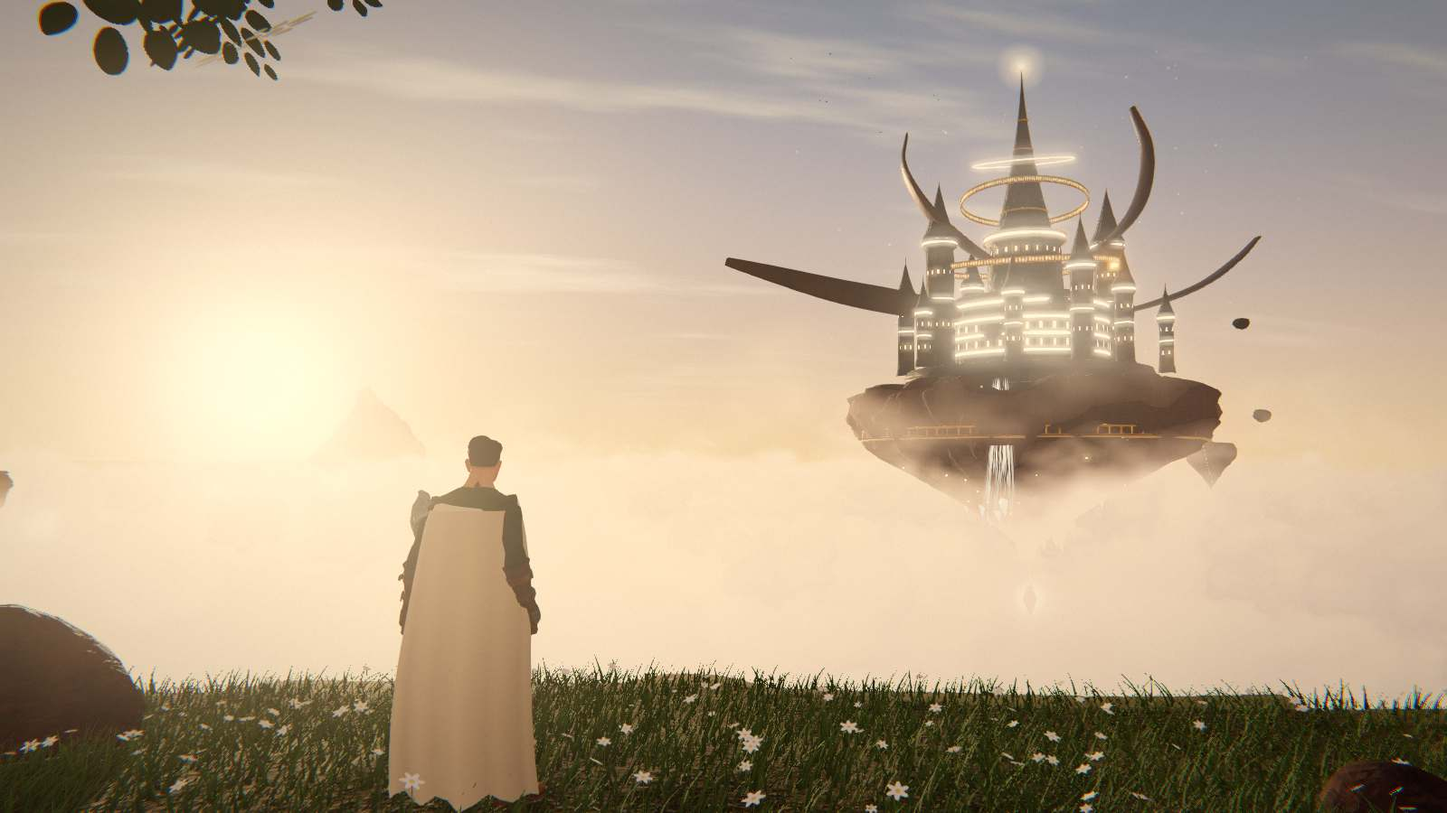
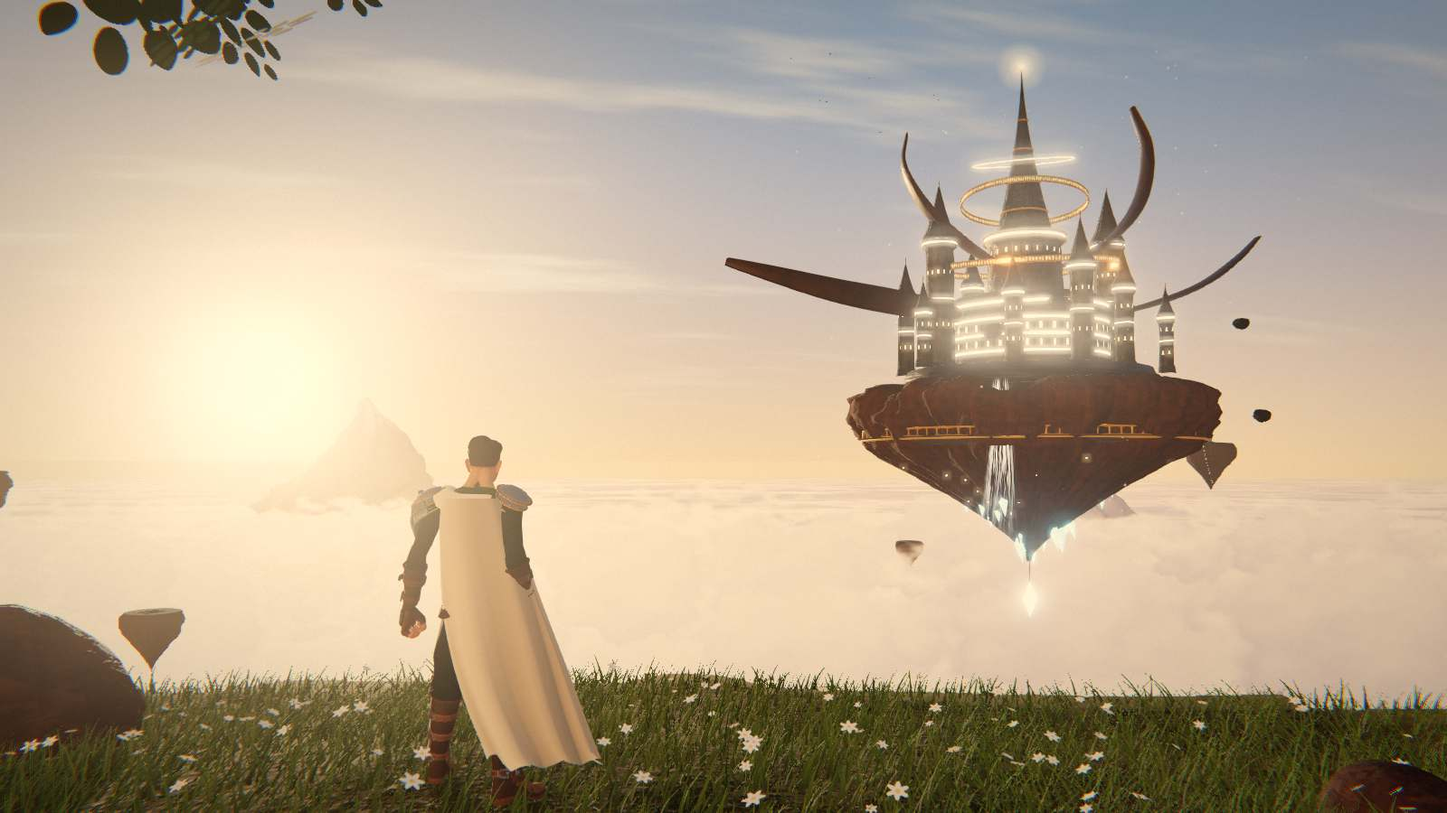
Title scene closer to the reference: sun in frame, visible sea of clouds, hero with hair, pauldrons and wind-swept cloak; crossed curved daggers; tree colour variation; crisp brand text

diff --git a/src/client/scenes/skycastle.ts b/src/client/scenes/skycastle.ts
@@ -186,10 +186,10 @@ export class SkyCastle {
     A.uSunDir.value.copy(this.sunDir);
     A.uFogColor.value.setRGB(0.86, 0.66, 0.50);
     A.uSunFogColor.value.setRGB(1.0, 0.62, 0.30);
-    A.uFogDensity.value = 0.00016; A.uFogHeight.value = -60; A.uFogFalloff.value = 0.0022;
+    A.uFogDensity.value = 0.00007; A.uFogHeight.value = -60; A.uFogFalloff.value = 0.0022;
     this.sky = skyDome(this.sunDir);
     const su = (this.sky.material as THREE.ShaderMaterial).uniforms;
-    su.uZen.value.setRGB(0.20, 0.27, 0.46); su.uHor.value.setRGB(1.0, 0.66, 0.38); su.uSunCol.value.setRGB(1.0, 0.68, 0.34);
+    su.uZen.value.setRGB(0.15, 0.29, 0.58); su.uHor.value.setRGB(1.0, 0.66, 0.38); su.uSunCol.value.setRGB(1.0, 0.68, 0.34);
     su.uSeaLo.value.setRGB(0.62, 0.46, 0.46); su.uSeaHi.value.setRGB(1.0, 0.82, 0.62);
     S.add(this.sky);
 
@@ -606,7 +606,7 @@ export class SkyCastle {
 
     // THE HERO: seen from behind at the cliff edge, cream hooded cloak in the wind, facing the castle
     try {
-      const h = await makeHero('Ranger_Male_SimpleParted', { headgear: false, hair: 0x2a2018, tint: 0x8e8270 });
+      const h = await makeHero('Ranger_Male_SimpleParted', { headgear: false, hair: 0x5a4636, tint: 0x8e8270 });
       h.root.traverse((o) => { if (/Hair_Beard|Head_Hood/.test(o.name)) o.visible = false; });
       const ah = 5.2, sd = -0.9;
       const x = cb.x + f.x * ah + r.x * sd, z = cb.z + f.z * ah + r.z * sd;
@@ -616,7 +616,31 @@ export class SkyCastle {
       h.play('idle', 0); h.mixer.update(0.5);
       this.scene.add(h.root);
       h.root.updateMatrixWorld(true);
-      const cl = makeCloak(h.root, { color: 0xd6c4a0, length: 1.3, width: 0.74, litSide: 1 });
+      const cl = makeCloak(h.root, { color: 0xd6c4a0, length: 1.25, width: 0.6, litSide: 1, sweep: -0.55 });
+      // light armour like the reference: layered steel pauldrons with gold edging on both shoulders
+      {
+        const steel = new THREE.MeshPhysicalMaterial({ color: 0xa39a8c, metalness: 0.85, roughness: 0.42, clearcoat: 0.2, envMapIntensity: 0.6 });
+        const gold = new THREE.MeshStandardMaterial({ color: 0xc9a25a, metalness: 1, roughness: 0.3 });
+        const s = h.root.scale.x || 1;
+        for (const side of ['l', 'r'] as const) {
+          let arm: THREE.Object3D | null = null; h.root.traverse((b) => { if (b.name === 'upperarm_' + side) arm = b; });
+          if (!arm) continue;
+          const wp = new THREE.Vector3().setFromMatrixPosition((arm as THREE.Object3D).matrixWorld);
+          const out = new THREE.Vector3().subVectors(wp, new THREE.Vector3().setFromMatrixPosition(h.root.matrixWorld)).setY(0).normalize();
+          const P = new THREE.Group();
+          for (let k = 0; k < 3; k++) {
+            const rr = (0.078 - k * 0.009) * s;
+            const shell = new THREE.Mesh(new THREE.SphereGeometry(rr, 20, 10, 0, Math.PI * 2, 0, Math.PI * 0.42), steel);
+            shell.scale.set(1.05, 0.62, 1.2); shell.position.set(0, -k * 0.034 * s, 0); shell.rotation.z = k * 0.12;
+            const rim = new THREE.Mesh(new THREE.TorusGeometry(rr * Math.sin(Math.PI * 0.42) * 1.04, 0.006 * s, 6, 28), gold);
+            rim.rotation.x = Math.PI / 2; rim.scale.set(1.05, 1.2, 1); rim.position.set(0, shell.position.y + rr * Math.cos(Math.PI * 0.42) * 0.62, 0);
+            shell.castShadow = rim.castShadow = true; P.add(shell, rim);
+          }
+          P.position.copy(wp).addScaledVector(out, 0.03 * s).add(new THREE.Vector3(0, 0.05 * s, 0));
+          P.lookAt(P.position.clone().add(new THREE.Vector3(0, 1, 0)).addScaledVector(out, 0.55)); P.rotateX(Math.PI / 2);
+          this.scene.add(P); (arm as THREE.Object3D).attach(P);
+        }
+      }
       if (cl) { cl.uniforms.uWind.value = 1.25; this.cloak = cl; }
       this.heroes.push(h);
       this.hero = h.root;
@@ -661,10 +685,10 @@ export class SkyCastle {
   /** The sea of clouds under the islands: an fbm cloud deck lit by the low sun (warm tops,
    *  lilac shade), with forward scattering toward the sun and distance haze into the horizon. */
   private buildCloudSea() {
-    const y0 = this.camBase.y - 120;
+    const y0 = this.camBase.y - 240;
     const m = new THREE.ShaderMaterial({
       fog: false, depthWrite: false, transparent: false,
-      uniforms: { uTime: { value: 0 }, uSun: { value: this.sunDir }, uCam: { value: this.camera.position }, uLit: { value: new THREE.Color(1.35, 0.98, 0.70) }, uShade: { value: new THREE.Color(0.46, 0.36, 0.46) }, uHaze: { value: new THREE.Color(1.0, 0.70, 0.46) }, uSunCol: { value: new THREE.Color(1.0, 0.68, 0.36) } },
+      uniforms: { uTime: { value: 0 }, uSun: { value: this.sunDir }, uCam: { value: this.camera.position }, uLit: { value: new THREE.Color(1.35, 0.98, 0.70) }, uShade: { value: new THREE.Color(0.38, 0.30, 0.42) }, uHaze: { value: new THREE.Color(0.98, 0.66, 0.44) }, uSunCol: { value: new THREE.Color(1.0, 0.68, 0.36) } },
       vertexShader: 'varying vec3 vW; void main(){ vec4 w = modelMatrix * vec4(position,1.0); vW = w.xyz; gl_Position = projectionMatrix * viewMatrix * w; }',
       fragmentShader: `
         uniform float uTime; uniform vec3 uSun, uCam, uLit, uShade, uHaze, uSunCol; varying vec3 vW;
@@ -685,7 +709,7 @@ export class SkyCastle {
           float mu = max(dot(v, uSun), 0.0);
           col += uSunCol * (pow(mu, 10.0) * 0.9 + pow(mu, 3.0) * 0.25) * (0.4 + tops);
           float dist = length(vW.xz - uCam.xz);
-          float hz = 1.0 - exp(-dist * 0.00018);
+          float hz = 1.0 - exp(-dist * 0.00007);
           col = mix(col, uHaze + uSunCol * pow(mu, 6.0) * 0.6, clamp(hz, 0.0, 1.0));
           gl_FragColor = vec4(col, 1.0);
         }`,
@@ -703,12 +727,12 @@ export class SkyCastle {
         const u = x / S - 0.5, v = y / S - 0.5;
         const nn = fbm(u * 6 + 3, v * 6, 1.7, 5);
         const r = Math.hypot(u, v * 1.25) * 2;
-        const a0 = (1 - r) * 1.7 + (nn - 0.5) * 2.2; const a = a0 <= 0 ? 0 : Math.min(1, a0 * a0 * 2.2);
-        const i = (y * S + x) * 4; im.data[i] = im.data[i + 1] = im.data[i + 2] = 255 * Math.min(1, 0.55 + nn * 0.6); im.data[i + 3] = 255 * Math.pow(a, 1.4);
+        const a0 = (1 - r) * 1.9 + (nn - 0.5) * 2.4; const a = a0 <= 0 ? 0 : Math.min(1, a0 * a0 * 5.0);
+        const i = (y * S + x) * 4; im.data[i] = im.data[i + 1] = im.data[i + 2] = 255 * Math.min(1, 0.55 + nn * 0.6); im.data[i + 3] = 255 * a;
       }
       g2.putImageData(im, 0, 0);
       const ct = new THREE.CanvasTexture(c); ct.colorSpace = THREE.NoColorSpace;
-      const N = this.quality === 'low' ? 70 : 170;
+      const N = this.quality === 'low' ? 90 : 260;
       const geo = new THREE.InstancedBufferGeometry();
       geo.setAttribute('position', new THREE.BufferAttribute(new Float32Array([-0.5, -0.5, 0, 0.5, -0.5, 0, 0.5, 0.5, 0, -0.5, 0.5, 0]), 3));
       geo.setAttribute('uv', new THREE.BufferAttribute(new Float32Array([0, 0, 1, 0, 1, 1, 0, 1]), 2));
@@ -716,16 +740,16 @@ export class SkyCastle {
       const off = new Float32Array(N * 4); const rr = mulberry(311);
       const f = this.fwd, rt = this.right, cb = this.camBase;
       for (let i = 0; i < N; i++) {
-        const d = 140 + Math.pow(rr(), 1.1) * 2600, sd = (rr() - 0.5) * d * 1.6;
+        const d = 220 + Math.pow(rr(), 1.35) * 2400, sd = (rr() - 0.5) * d * 1.7;
         off[i * 4] = cb.x + f.x * d + rt.x * sd; off[i * 4 + 2] = cb.z + f.z * d + rt.z * sd;
-        const size = 120 + rr() * 260 + d * 0.06;
-        off[i * 4 + 1] = y0 + size * 0.18 + rr() * 20; off[i * 4 + 3] = size;
+        const size = 150 + rr() * 300 + d * 0.08;
+        off[i * 4 + 1] = y0 + size * 0.12 + rr() * 30; off[i * 4 + 3] = size;
       }
       geo.setAttribute('aOff', new THREE.InstancedBufferAttribute(off, 4));
       geo.instanceCount = N;
       const pm = new THREE.ShaderMaterial({
         transparent: true, depthWrite: false, fog: false,
-        uniforms: { map: { value: ct }, uSun: { value: this.sunDir }, uCam: { value: this.camera.position }, uLit: { value: new THREE.Color(1.5, 1.08, 0.74) }, uShade: { value: new THREE.Color(0.40, 0.30, 0.42) }, uHaze: { value: new THREE.Color(1.0, 0.70, 0.46) }, uSunCol: { value: new THREE.Color(1.0, 0.68, 0.36) } },
+        uniforms: { map: { value: ct }, uSun: { value: this.sunDir }, uCam: { value: this.camera.position }, uLit: { value: new THREE.Color(1.3, 0.92, 0.62) }, uShade: { value: new THREE.Color(0.34, 0.27, 0.38) }, uHaze: { value: new THREE.Color(1.0, 0.70, 0.46) }, uSunCol: { value: new THREE.Color(1.0, 0.68, 0.36) } },
         vertexShader: `attribute vec4 aOff; varying vec2 vUv; varying vec3 vW;
           void main(){ vUv = uv; vec3 c = aOff.xyz; vec3 r = vec3(viewMatrix[0][0], viewMatrix[1][0], viewMatrix[2][0]); vec3 u = vec3(0.0,1.0,0.0);
             vec3 w = c + r * position.x * aOff.w * 1.6 + u * position.y * aOff.w; vW = w; gl_Position = projectionMatrix * viewMatrix * vec4(w, 1.0); }`,
@@ -737,8 +761,8 @@ export class SkyCastle {
             float lit = clamp(pow(vUv.y, 1.4) * 1.1 + side * 0.4 + (t.r - 0.6) * 0.8, 0.0, 1.0);
             vec3 col = mix(uShade, uLit, lit);
             col += uSunCol * (pow(mu, 8.0) * 1.2 + pow(mu, 2.5) * 0.2) * (1.2 - t.a * 0.6);
-            float dist = length(vW.xz - uCam.xz); col = mix(col, uHaze + uSunCol * pow(mu, 6.0) * 0.6, clamp(1.0 - exp(-dist * 0.00012), 0.0, 1.0));
-            gl_FragColor = vec4(col, t.a * 0.97); }`,
+            float dist = length(vW.xz - uCam.xz); col = mix(col, uHaze + uSunCol * pow(mu, 6.0) * 0.6, clamp(1.0 - exp(-dist * 0.00005), 0.0, 1.0));
+            gl_FragColor = vec4(col, t.a); }`,
       });
       const puffsMesh = new THREE.Mesh(geo, pm); puffsMesh.frustumCulled = false; puffsMesh.renderOrder = -4; (puffsMesh as any).noAtmos = true;
       this.scene.add(puffsMesh);

diff --git a/src/client/engine/cloak.ts b/src/client/engine/cloak.ts
@@ -23,7 +23,7 @@ function fabricTex(): THREE.Texture {
   return (fabricNormal = t);
 }
 
-export function makeCloak(heroRoot: THREE.Object3D, o: { color?: number; lining?: number; length?: number; width?: number; hood?: boolean; trim?: number; litSide?: number } = {}): CloakFX | null {
+export function makeCloak(heroRoot: THREE.Object3D, o: { color?: number; lining?: number; length?: number; width?: number; hood?: boolean; trim?: number; litSide?: number; sweep?: number } = {}): CloakFX | null {
   let spine: THREE.Object3D | null = null, neck: THREE.Object3D | null = null, pelvis: THREE.Object3D | null = null;
   heroRoot.traverse((b) => { if (b.name === 'spine_03') spine = b; if (b.name === 'neck_01') neck = b; if (b.name === 'pelvis') pelvis = b; });
   if (!spine || !neck) return null;
@@ -33,8 +33,8 @@ export function makeCloak(heroRoot: THREE.Object3D, o: { color?: number; lining?
   const s = heroRoot.scale.x || 1;
   const nk = local(neck).divideScalar(s), sp = local(spine).divideScalar(s);
   const pv = pelvis ? local(pelvis).divideScalar(s) : sp.clone().setY(sp.y * 0.55);
-  const top = nk.y - 0.06, len = o.length ?? Math.max(0.9, top - 0.14), backZ = Math.min(sp.z, pv.z) - 0.17;
-  const W0 = 0.42, W1 = o.width ?? 0.8;
+  const top = nk.y + 0.0, len = o.length ?? Math.max(0.9, top - 0.14), backZ = Math.min(sp.z, pv.z) - 0.17;
+  const W0 = 0.3, W1 = o.width ?? 0.8;
   const SU = 14, SV = 22;
   const geo = new THREE.PlaneGeometry(1, 1, SU, SV);
   const pos = geo.attributes.position as THREE.BufferAttribute;
@@ -43,25 +43,26 @@ export function makeCloak(heroRoot: THREE.Object3D, o: { color?: number; lining?
   for (let i = 0; i < pos.count; i++) {
     const u = pos.getX(i) + 0.5, v = 0.5 - pos.getY(i); // u 0..1 across, v 0 (collar) .. 1 (hem)
     const w = W0 + (W1 - W0) * Math.pow(v, 0.7);
-    const a = (u - 0.5) * Math.PI * (0.95 - v * 0.25);
+    // the top wraps forward over the shoulders, the lower cloth hangs flatter behind
+    const a = (u - 0.5) * Math.PI * (1.18 - v * 0.42);
     const r = 0.13 + v * 0.1;
     const x = Math.sin(a) * w * 0.52;
     const z = backZ + (1 - Math.cos(a)) * r * 1.4 - v * v * 0.12;
     // vertical folds: soft pleats that deepen toward the hem
-    const pleat = (Math.sin(u * Math.PI * 9) * 0.035 + Math.sin(u * Math.PI * 4 + 1.3) * 0.025) * (0.15 + v);
+    const pleat = (Math.sin(u * Math.PI * 7 + Math.sin(u * 5.0) * 0.8) * 0.05 + Math.sin(u * Math.PI * 3 + 1.3) * 0.035) * (0.1 + v * 1.1);
     const hemCut = v > 0.97 ? Math.sin(u * 23.0) * 0.025 : 0;
     pos.setXYZ(i, x, top - v * len + hemCut, z - pleat);
     hem[i] = v;
     // baked fold occlusion: valleys of the pleats and the side wraps sit darker
-    const pn = Math.sin(u * Math.PI * 9) * 0.6 + Math.sin(u * Math.PI * 4 + 1.3) * 0.4;
-    const occ = 0.78 + 0.22 * (0.5 + 0.5 * pn) * (0.4 + v) - Math.pow(Math.abs(u - 0.5) * 2, 3) * 0.18 - (1 - v) * 0.06;
+    const pn = Math.sin(u * Math.PI * 7 + Math.sin(u * 5.0) * 0.8) * 0.6 + Math.sin(u * Math.PI * 3 + 1.3) * 0.4;
+    const occ = 0.6 + 0.5 * (0.5 + 0.5 * pn) * (0.35 + v * 0.8) - Math.pow(Math.abs(u - 0.5) * 2, 3) * 0.18 - (1 - v) * 0.06;
     const sideLit = o.litSide === undefined ? 1 : 0.82 + 0.36 * (o.litSide > 0 ? u : 1 - u);
     cols[i * 3] = cols[i * 3 + 1] = cols[i * 3 + 2] = Math.max(0.42, Math.min(1.15, occ * sideLit));
   }
   geo.setAttribute('aHem', new THREE.BufferAttribute(hem, 1));
   geo.setAttribute('color', new THREE.BufferAttribute(cols, 3));
   geo.computeVertexNormals();
-  const uniforms = { uTime: { value: 0 }, uWind: { value: 1 }, uTrail: { value: 0 } };
+  const uniforms = { uTime: { value: 0 }, uWind: { value: 1 }, uTrail: { value: 0 }, uSweep: { value: o.sweep ?? 0 } };
   const mat = new THREE.MeshPhysicalMaterial({
     color: o.color ?? 0xe9dfca, roughness: 0.86, metalness: 0, side: THREE.DoubleSide, vertexColors: true,
     sheen: 1, sheenRoughness: 0.55, sheenColor: new THREE.Color(o.color ?? 0xe9dfca).lerp(new THREE.Color(0xffffff), 0.5),
@@ -70,14 +71,18 @@ export function makeCloak(heroRoot: THREE.Object3D, o: { color?: number; lining?
   mat.onBeforeCompile = (sh) => {
     Object.assign(sh.uniforms, uniforms);
     sh.vertexShader = sh.vertexShader
-      .replace('#include <common>', '#include <common>\nattribute float aHem; uniform float uTime, uWind, uTrail;')
+      .replace('#include <common>', '#include <common>\nattribute float aHem; uniform float uTime, uWind, uTrail, uSweep;')
       .replace('#include <begin_vertex>', `#include <begin_vertex>
         float hk = pow(aHem, 1.5);
         float ph = position.x * 5.0 + aHem * 4.0;
         float wv = sin(uTime * 2.1 + ph) * 0.6 + sin(uTime * 3.7 + ph * 1.7) * 0.3 + sin(uTime * 1.3 - position.x * 2.0) * 0.5;
         transformed.z -= (0.05 + 0.10 * uWind) * hk * (0.6 + 0.4 * wv) + uTrail * hk * 0.55;
         transformed.y += uTrail * hk * 0.28;
-        transformed.x += sin(uTime * 1.7 + aHem * 3.0) * 0.05 * uWind * hk;`);
+        transformed.x += sin(uTime * 1.7 + aHem * 3.0) * 0.05 * uWind * hk;
+        // steady side wind (title screen): the hem sweeps out to one side and billows
+        transformed.x += uSweep * hk * (0.75 + 0.18 * wv) * (0.7 + 0.6 * (position.x + 0.4));
+        transformed.z -= abs(uSweep) * hk * 0.25 * (0.8 + 0.2 * wv);
+        transformed.y += abs(uSweep) * hk * 0.12;`);
   };
   const sheet = new THREE.Mesh(geo, mat);
   sheet.castShadow = true; sheet.receiveShadow = true; sheet.frustumCulled = false;

diff --git a/src/client/engine/weapons.ts b/src/client/engine/weapons.ts
@@ -192,21 +192,40 @@ export function buildWeapon(model: WeaponModel, o: { aura?: boolean; light?: boo
     updaters.push((t) => { blade.emissiveIntensity = 2.7 + 0.7 * (Math.sin(t * 7.3) * 0.5 + Math.sin(t * 13.1) * 0.3 + Math.sin(t * 2.1) * 0.6); });
   } else if (model === 'umbra') {
     glow = new THREE.Color(0.7, 0.25, 1.0);
-    const metal = new THREE.MeshPhysicalMaterial({ color: 0x5a3c86, metalness: 1, roughness: 0.2, clearcoat: 0.8, iridescence: 0.6, emissive: new THREE.Color(0.18, 0.04, 0.32), emissiveIntensity: 0.5 });
+    const metal = new THREE.MeshPhysicalMaterial({ color: 0x5a3c86, metalness: 1, roughness: 0.2, clearcoat: 0.8, iridescence: 0.6, emissive: new THREE.Color(0.18, 0.04, 0.32), emissiveIntensity: 0.22 });
     const edge = new THREE.MeshStandardMaterial({ color: 0x110818, emissive: new THREE.Color(0.85, 0.35, 1.0), emissiveIntensity: 5.5 });
+    // phase 3 (his reference): two curved daggers crossed in an X. Each has a sickle-curved blade
+    // with a glowing violet inner edge, a gold scrolled guard, a wrapped grip and a ring pommel.
+    const gold = M.gold();
     const mkBlade = (side: number) => {
       const B = new THREE.Group();
-      const { shape: sh, tip } = crescentShape(0.40, 0.385, 0.15);
-      const geo = new THREE.ExtrudeGeometry(sh, { depth: 0.012, bevelEnabled: true, bevelSize: 0.01, bevelThickness: 0.008, bevelSegments: 2, curveSegments: 48 }).translate(0, 0, -0.006);
-      const m = new THREE.Mesh(geo, metal); m.castShadow = true; B.add(m);
-      // glowing cutting edge along the outer arc
-      const arc = new THREE.EllipseCurve(0, 0, 0.405, 0.405, -tip * 0.97, tip * 0.97, false, 0);
-      const pts = arc.getPoints(64).map((p) => new THREE.Vector3(p.x, p.y, 0));
-      B.add(new THREE.Mesh(new THREE.TubeGeometry(new THREE.CatmullRomCurve3(pts), 64, 0.006, 5, false), edge));
-      // rune notches
-      for (let k = 0; k < 5; k++) { const a = -0.5 + k * 0.25; const r = new THREE.Mesh(new THREE.BoxGeometry(0.03, 0.01, 0.026), edge); r.position.set(Math.cos(a) * 0.33, Math.sin(a) * 0.33, 0); r.rotation.z = a; B.add(r); }
-      const g = new THREE.Mesh(grip(0.18, 0.017), M.leather(0x1c1424)); g.rotation.z = Math.PI / 2; g.position.set(0.1, 0, 0); B.add(g);
-      B.rotation.z = Math.PI / 2 + side * 0.55; B.position.set(side * 0.08, 0.45, side * 0.05); B.rotation.x = side * 0.08;
+      // blade outline from a curved spine: wide at the guard, hooking to a needle tip
+      const spine = new THREE.QuadraticBezierCurve(new THREE.Vector2(0, 0), new THREE.Vector2(0.11, 0.26), new THREE.Vector2(-0.06, 0.5));
+      const N = 40, outer: THREE.Vector2[] = [], inner: THREE.Vector2[] = [];
+      for (let i = 0; i <= N; i++) {
+        const t = i / N, p = spine.getPoint(t), tg = spine.getTangent(t), nrm = new THREE.Vector2(tg.y, -tg.x);
+        const wd = 0.05 * Math.pow(1 - t, 0.75) * (1 + 0.25 * Math.sin(t * Math.PI));
+        outer.push(p.clone().addScaledVector(nrm, wd * 0.62)); inner.push(p.clone().addScaledVector(nrm, -wd * 0.38));
+      }
+      const sh = new THREE.Shape([...outer, ...inner.reverse()]);
+      const geo = new THREE.ExtrudeGeometry(sh, { depth: 0.008, bevelEnabled: true, bevelSize: 0.006, bevelThickness: 0.006, bevelSegments: 2, curveSegments: 8 }).translate(0, 0, -0.004);
+      const m = new THREE.Mesh(geo, metal); m.castShadow = true; m.position.y = 0.06; B.add(m);
+      // glowing cutting edge along the inner (concave) curve
+      const ePts = inner.slice().reverse().map((p) => new THREE.Vector3(p.x, p.y + 0.06, 0));
+      B.add(new THREE.Mesh(new THREE.TubeGeometry(new THREE.CatmullRomCurve3(ePts), 48, 0.0045, 5, false), edge));
+      // rune notches down the blade's spine
+      for (let k = 0; k < 4; k++) { const p = spine.getPoint(0.12 + k * 0.17); const r = new THREE.Mesh(new THREE.BoxGeometry(0.014, 0.006, 0.02), edge); r.position.set(p.x, p.y + 0.06, 0); B.add(r); }
+      // gold guard with curled ends
+      const gq = new THREE.CatmullRomCurve3([new THREE.Vector3(-0.07, 0.07, 0), new THREE.Vector3(-0.05, 0.045, 0), new THREE.Vector3(0, 0.05, 0), new THREE.Vector3(0.05, 0.045, 0), new THREE.Vector3(0.075, 0.075, 0)]);
+      B.add(new THREE.Mesh(new THREE.TubeGeometry(gq, 24, 0.009, 8, false), gold));
+      for (const sx of [-1, 1]) { const c = new THREE.Mesh(new THREE.TorusGeometry(0.012, 0.005, 6, 16, Math.PI * 1.4), gold); c.position.set(sx * 0.07, 0.083, 0); c.rotation.z = sx > 0 ? -0.6 : Math.PI + 0.6; B.add(c); }
+      const gem = new THREE.Mesh(new THREE.OctahedronGeometry(0.012, 0), edge); gem.position.set(0, 0.05, 0.01); B.add(gem);
+      // wrapped grip + ring pommel
+      const g = new THREE.Mesh(grip(0.13, 0.014), M.leather(0x1c1424)); g.position.y = -0.02; B.add(g);
+      const ring = new THREE.Mesh(new THREE.TorusGeometry(0.022, 0.006, 8, 24), gold); ring.position.y = -0.1; B.add(ring);
+      B.position.set(side * 0.13, 0.36, side * 0.02);
+      B.scale.setScalar(1.3);
+      B.rotation.z = 0.42; B.rotation.y = side < 0 ? Math.PI : 0;
       return B;
     };
     G.add(mkBlade(1), mkBlade(-1));

diff --git a/src/client/ui/style.css b/src/client/ui/style.css
@@ -365,11 +365,11 @@ body.poster #gl { opacity: 0; }
 .tm.tm-hidden { opacity: 0; visibility: hidden; transition: opacity .5s, visibility .5s; }
 .tm-brand { position: absolute; left: max(28px, 4vw); top: max(26px, 5vh); text-shadow: 0 2px 18px rgba(60,30,8,.55), 0 0 2px rgba(60,30,8,.4); pointer-events: none; }
 .tm-dos { font-family: var(--display); font-weight: 700; font-size: clamp(64px, 11vw, 132px); line-height: .9; letter-spacing: .06em; color: var(--ivory2);
-  background: linear-gradient(180deg, #fffaf0 0%, #f7e8c6 55%, #d9b671 100%); -webkit-background-clip: text; background-clip: text; -webkit-text-fill-color: transparent; filter: drop-shadow(0 3px 10px rgba(70,35,8,.45)); }
+  background: linear-gradient(180deg, #fffaf0 0%, #f7e8c6 55%, #d9b671 100%); -webkit-background-clip: text; background-clip: text; -webkit-text-fill-color: transparent; text-shadow: none; -webkit-text-stroke: 0.6px rgba(120,80,30,.55); filter: drop-shadow(0 2px 2px rgba(60,30,6,.55)) drop-shadow(0 4px 14px rgba(70,35,8,.4)); }
 .tm-o { position: relative; display: inline-block; }
 .tm-o i { position: absolute; left: 50%; top: 51%; width: .36em; height: .36em; transform: translate(-50%, -50%); color: #fff6dc; filter: drop-shadow(0 0 6px rgba(255,236,190,.9)); -webkit-text-fill-color: initial; }
 .tm-o i svg { width: 100%; height: 100%; display: block; }
-.tm-sub { font-family: var(--display); font-weight: 500; font-size: clamp(14px, 2.1vw, 24px); letter-spacing: .42em; margin-top: .55em; color: var(--ivory); }
+.tm-sub { text-shadow: 0 1px 3px rgba(50,25,5,.7), 0 0 14px rgba(50,25,5,.35); font-family: var(--display); font-weight: 500; font-size: clamp(14px, 2.1vw, 24px); letter-spacing: .42em; margin-top: .55em; color: var(--ivory); }
 .tm-rule { display: flex; align-items: center; gap: 10px; width: min(330px, 62vw); margin: 14px 0 12px; color: var(--gold2); }
 .tm-rule span { flex: 1; height: 1px; background: linear-gradient(90deg, rgba(246,236,212,.9), rgba(246,236,212,.25)); }
 .tm-rule span:last-child { background: linear-gradient(90deg, rgba(246,236,212,.25), transparent); }
@@ -453,3 +453,7 @@ body.poster #gl { opacity: 0; }
 #loading .prog i { background: linear-gradient(90deg, #d8b46a, #fff1c8) !important; box-shadow: 0 0 12px rgba(255,230,170,.9) !important; }
 #loading .pl { font-family: var(--display); letter-spacing: .3em; color: var(--ivory); }
 #hud .minimap { border: 1.5px solid rgba(246,236,212,.85); box-shadow: 0 0 0 5px rgba(246,236,212,.12), 0 0 0 6px rgba(246,236,212,.35), 0 10px 30px rgba(20,10,4,.45); }
+
+/* readability over bright golden skies: soft warm scrims behind the brand and the menu */
+#menu::before { content: ''; position: absolute; inset: 0; pointer-events: none; background: radial-gradient(ellipse 48% 42% at 100% 92%, rgba(40,22,8,.42), transparent 70%), radial-gradient(ellipse 46% 34% at 0% 6%, rgba(40,22,8,.30), transparent 70%); }
+.tm-item span, .tm-tag, .tm-foot { text-shadow: 0 1px 3px rgba(40,20,4,.85), 0 0 16px rgba(40,20,4,.45); }

diff --git a/src/client/engine/foliage.ts b/src/client/engine/foliage.ts
@@ -11,12 +11,14 @@ function addWind(mat: THREE.Material, strength: number, leaves: boolean) {
   mat.onBeforeCompile = (sh, r) => {
     prev?.call(mat, sh, r);
     sh.uniforms.uTime = wind.uTime; sh.uniforms.uWind = wind.uWind;
-    sh.vertexShader = sh.vertexShader.replace('#include <common>', '#include <common>\nuniform float uTime; uniform float uWind;').replace('#include <begin_vertex>', `#include <begin_vertex>
+    sh.vertexShader = sh.vertexShader.replace('#include <common>', '#include <common>\nuniform float uTime; uniform float uWind; varying vec3 vTreeVar;').replace('#include <begin_vertex>', `#include <begin_vertex>
       {
         vec3 ip = vec3(0.0);
         #ifdef USE_INSTANCING
           ip = instanceMatrix[3].xyz;
         #endif
+        // per-tree colour variation + crown occlusion (phase 3: breaks the uniform stylized look)
+        vTreeVar = vec3(fract(sin(dot(ip.xz, vec2(12.9898, 78.233))) * 43758.5453), clamp(position.y / 9.0, 0.0, 1.0), length(position.xz));
         float h = max(position.y, 0.0);
         float ph = ip.x*0.21 + ip.z*0.17;
         float sway = (sin(uTime*1.3 + ph) * 0.6 + sin(uTime*2.9 + ph*1.7)*0.25) * uWind;
@@ -24,6 +26,13 @@ function addWind(mat: THREE.Material, strength: number, leaves: boolean) {
         transformed.z += cos(uTime*1.1 + ph) * ${strength.toFixed(3)} * h * h * 0.02 * uWind;
         ${leaves ? 'transformed += normal * sin(uTime*6.0 + position.x*3.0 + position.z*2.0 + ph) * 0.03 * uWind;' : ''}
       }`);
+    sh.fragmentShader = sh.fragmentShader.replace('#include <common>', '#include <common>\nvarying vec3 vTreeVar;').replace('#include <map_fragment>', `#include <map_fragment>
+      ${leaves && /Leaves/.test(mat.name) ? `{
+        float hv = vTreeVar.x;
+        vec3 tint = mix(vec3(0.78, 0.86, 0.62), vec3(1.08, 1.0, 0.72), hv);           // olive ↔ sun-gold greens
+        diffuseColor.rgb *= tint * mix(0.62, 1.08, smoothstep(0.15, 0.95, vTreeVar.y)); // darker inside/under the crown
+        diffuseColor.rgb = mix(diffuseColor.rgb, vec3(dot(diffuseColor.rgb, vec3(0.33))), 0.12); // less candy saturation
+      }` : /Bark/.test(mat.name) ? 'diffuseColor.rgb *= mix(0.8, 1.05, vTreeVar.x) * vec3(0.92, 0.88, 0.84);' : ''}`);
   };
 }
 

diff --git a/src/client/game/character.ts b/src/client/game/character.ts
@@ -55,7 +55,7 @@ export class CharacterView {
         // phase 3: every hero wears a cloth cloak in the title-menu style (class-coloured, wind + run trail)
         if (wantCloak) {
           const base = CLOAK_COLORS[key] ?? 0xd6c4a0;
-          const col = ap?.accent !== undefined && kind !== 'n' ? new THREE.Color(base).lerp(new THREE.Color(ap.accent), 0.22).getHex() : base;
+          const col = ap?.accent !== undefined && kind !== 'n' ? new THREE.Color(base).lerp(new THREE.Color(ap.accent), 0.08).getHex() : base;
           this.cloak = makeCloak(rig.root, { color: col, length: 1.05, width: 0.72 });
         }
         this.play('idle', 0); if (this.pendingWeapon !== undefined) this.setWeapon(this.pendingWeapon);

diff --git a/README.md b/README.md
@@ -252,5 +252,5 @@ Music, ambience and sound effects are synthesised live in WebAudio, so there are
 - **Title / main menu** (`src/client/ui/menu.ts`, `src/client/scenes/skycastle.ts`): golden-hour sea of clouds, floating castle, hero from behind in a wind-blown cloth cloak. Continue resumes the last hero, New Game opens character creation, Settings opens options, Quit logs out. Works in phone portrait and desktop landscape; keyboard navigable.
 - **Look**: warm golden grade in sky/post, finer meadow grass, cloth cloaks on heroes (`engine/cloak.ts`), HUD restyled in ivory-gold glass with heart/lightning bars, the violet twin blades are true crescents.
 - **Loading**: the menu shows at once over a 80 KB poster while the 3D title and then the world stream in the background. Animations slimmed (anims_skel 2.7 MB → 0.33 MB), unused models removed, textures WebP, title uses 512 px textures, and the server serves pre-compressed `.br/.gz` twins (`tools/precompress.mjs`, run by `npm run build`) with immutable caching for hashed bundles.
-  Measured with `npm run test:load` (cold cache, 9 Mbps / 150 ms): world ready 24.3 s / 16.4 MB → 16.5 s / 6.3 MB; first interactive screen 11 s → 1.6 s. Slow 4G (1.6 Mbps): world 92 s → 40 s.
+  Measured with `npm run test:load` (cold cache, 9 Mbps / 150 ms): world ready 24.3 s / 16.4 MB → 16.7 s / 6.4 MB; first interactive screen 11 s → 1.6 s; live 3D title 4.3 s. Slow 4G (1.6 Mbps): first screen 36 s → 3.3 s, world 92 s → 41 s.
 - **Tests**: `npm test` (unit), `npm run test:menu` (menu flow: settings, New Game → register → create → world, reload → Continue, Quit), `node tests/e2e/smoke.mjs`, `node tests/e2e/bots.mjs <ws> 3`.
